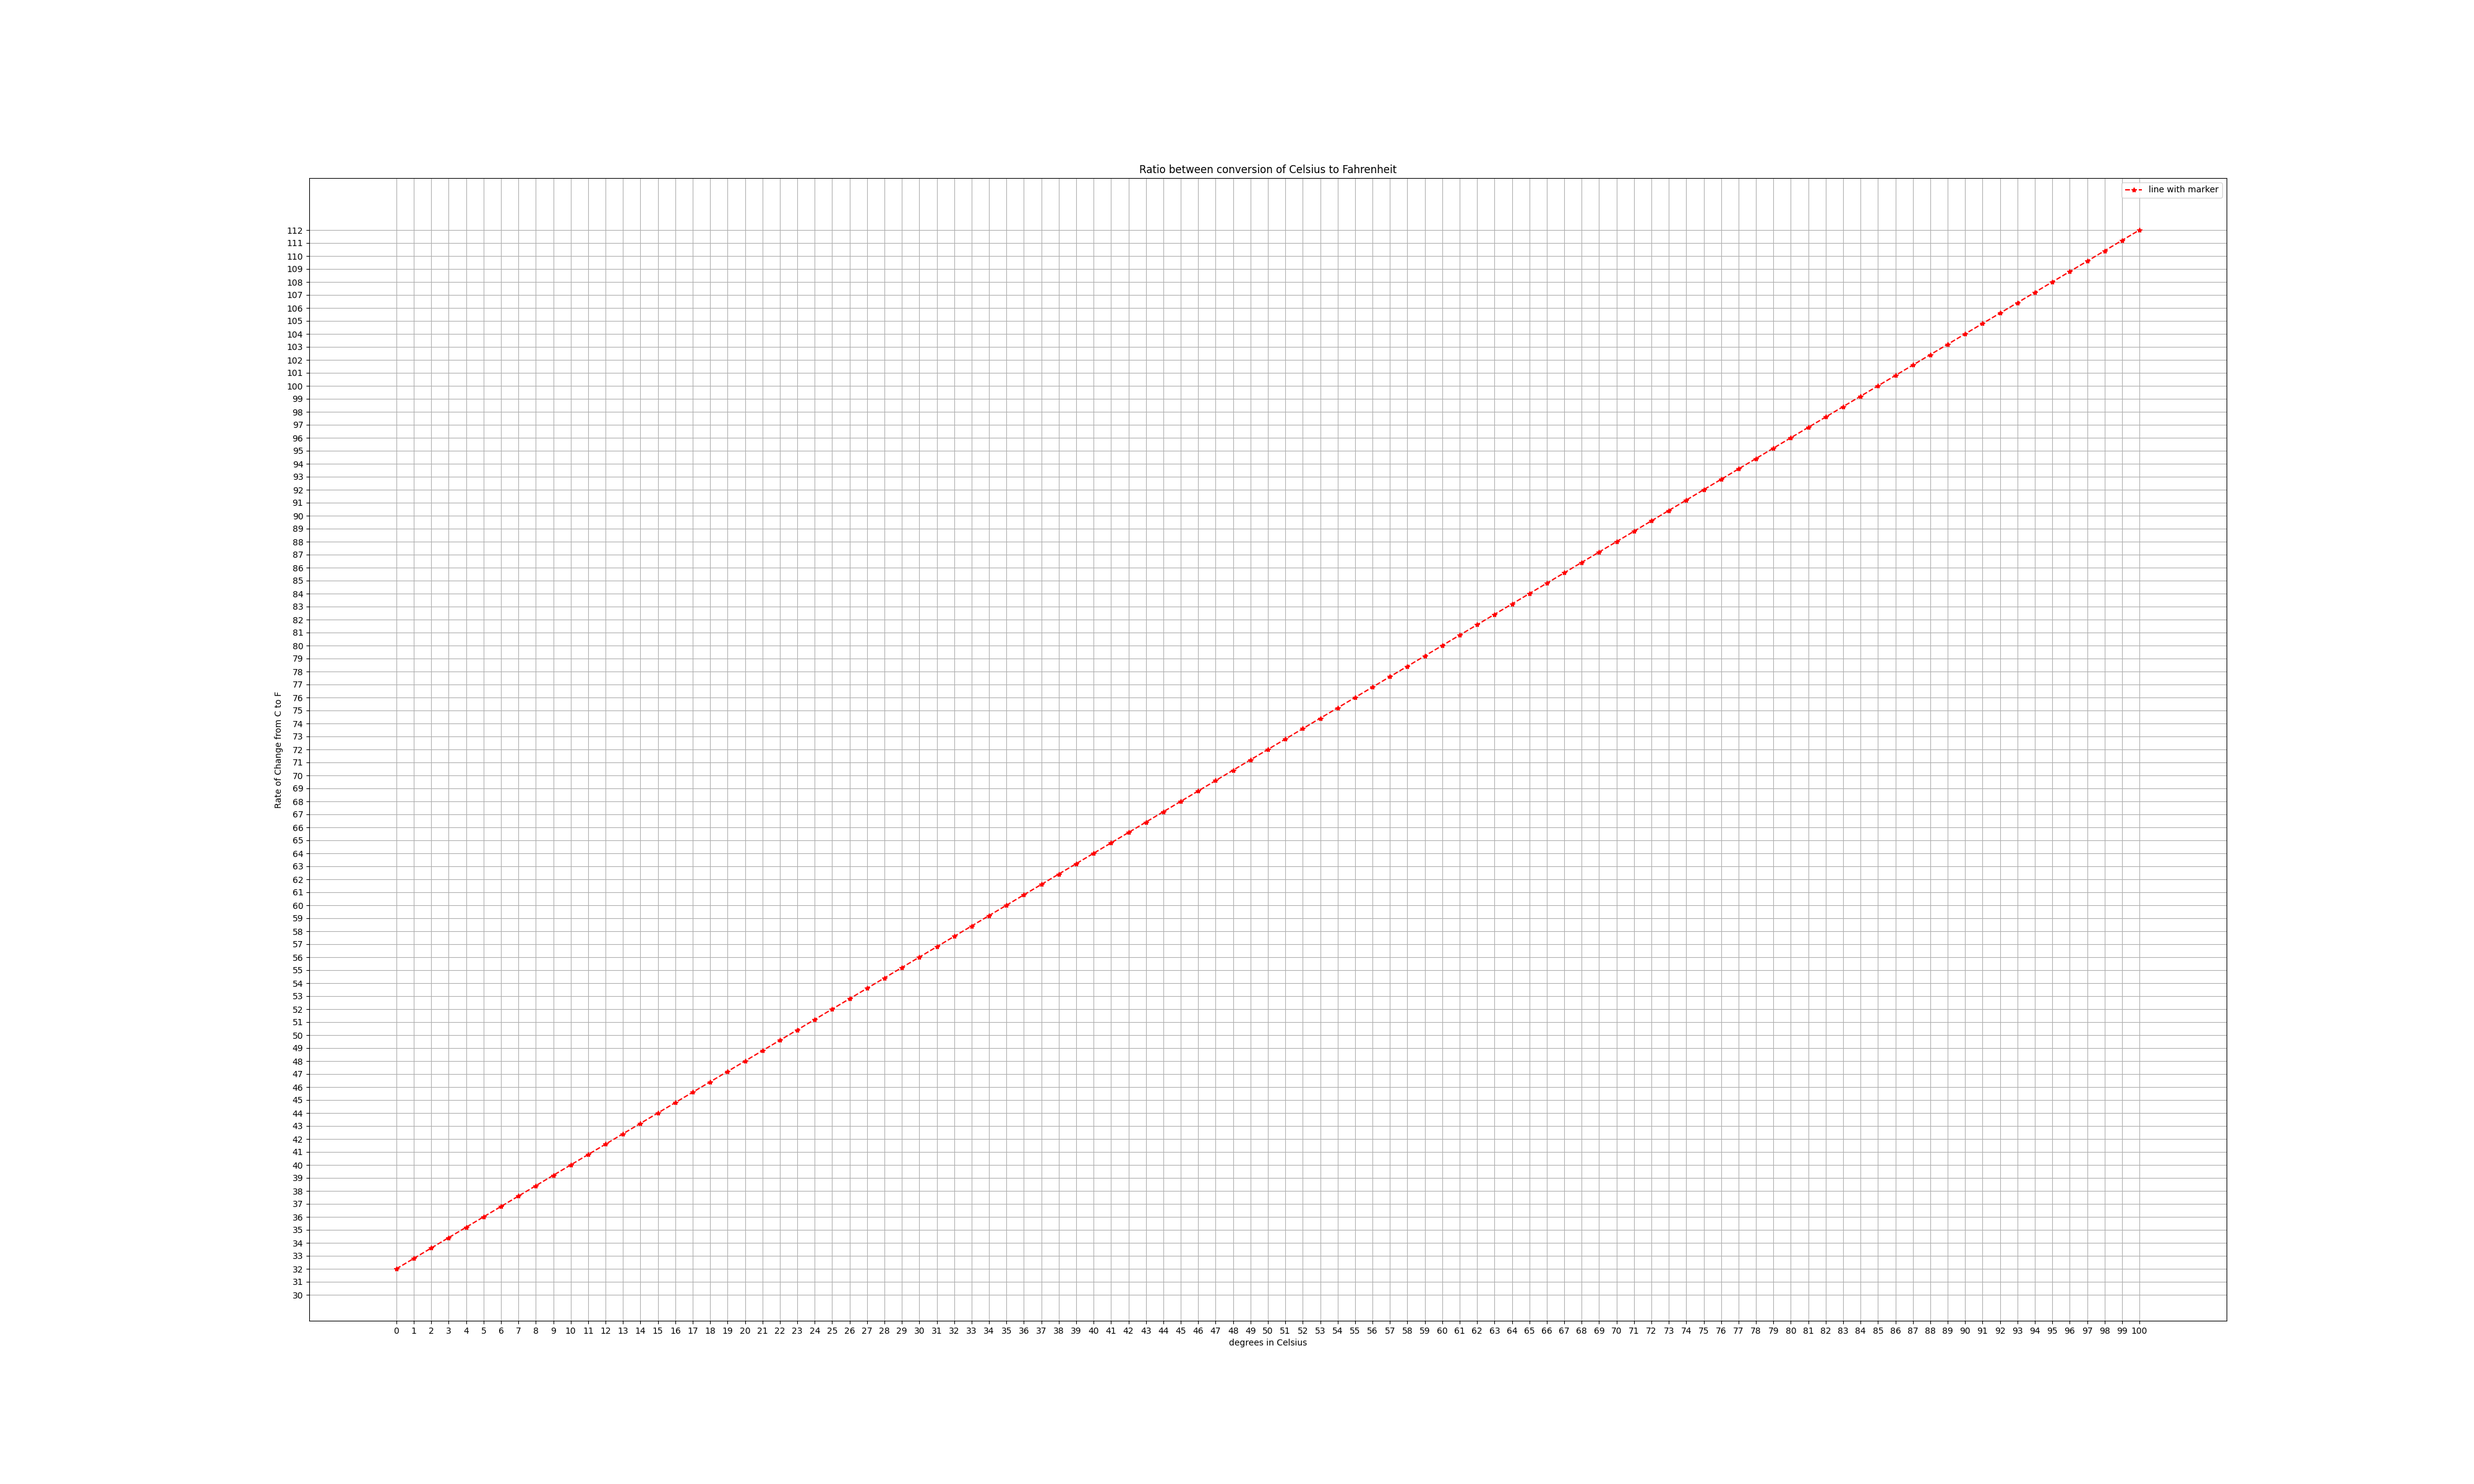
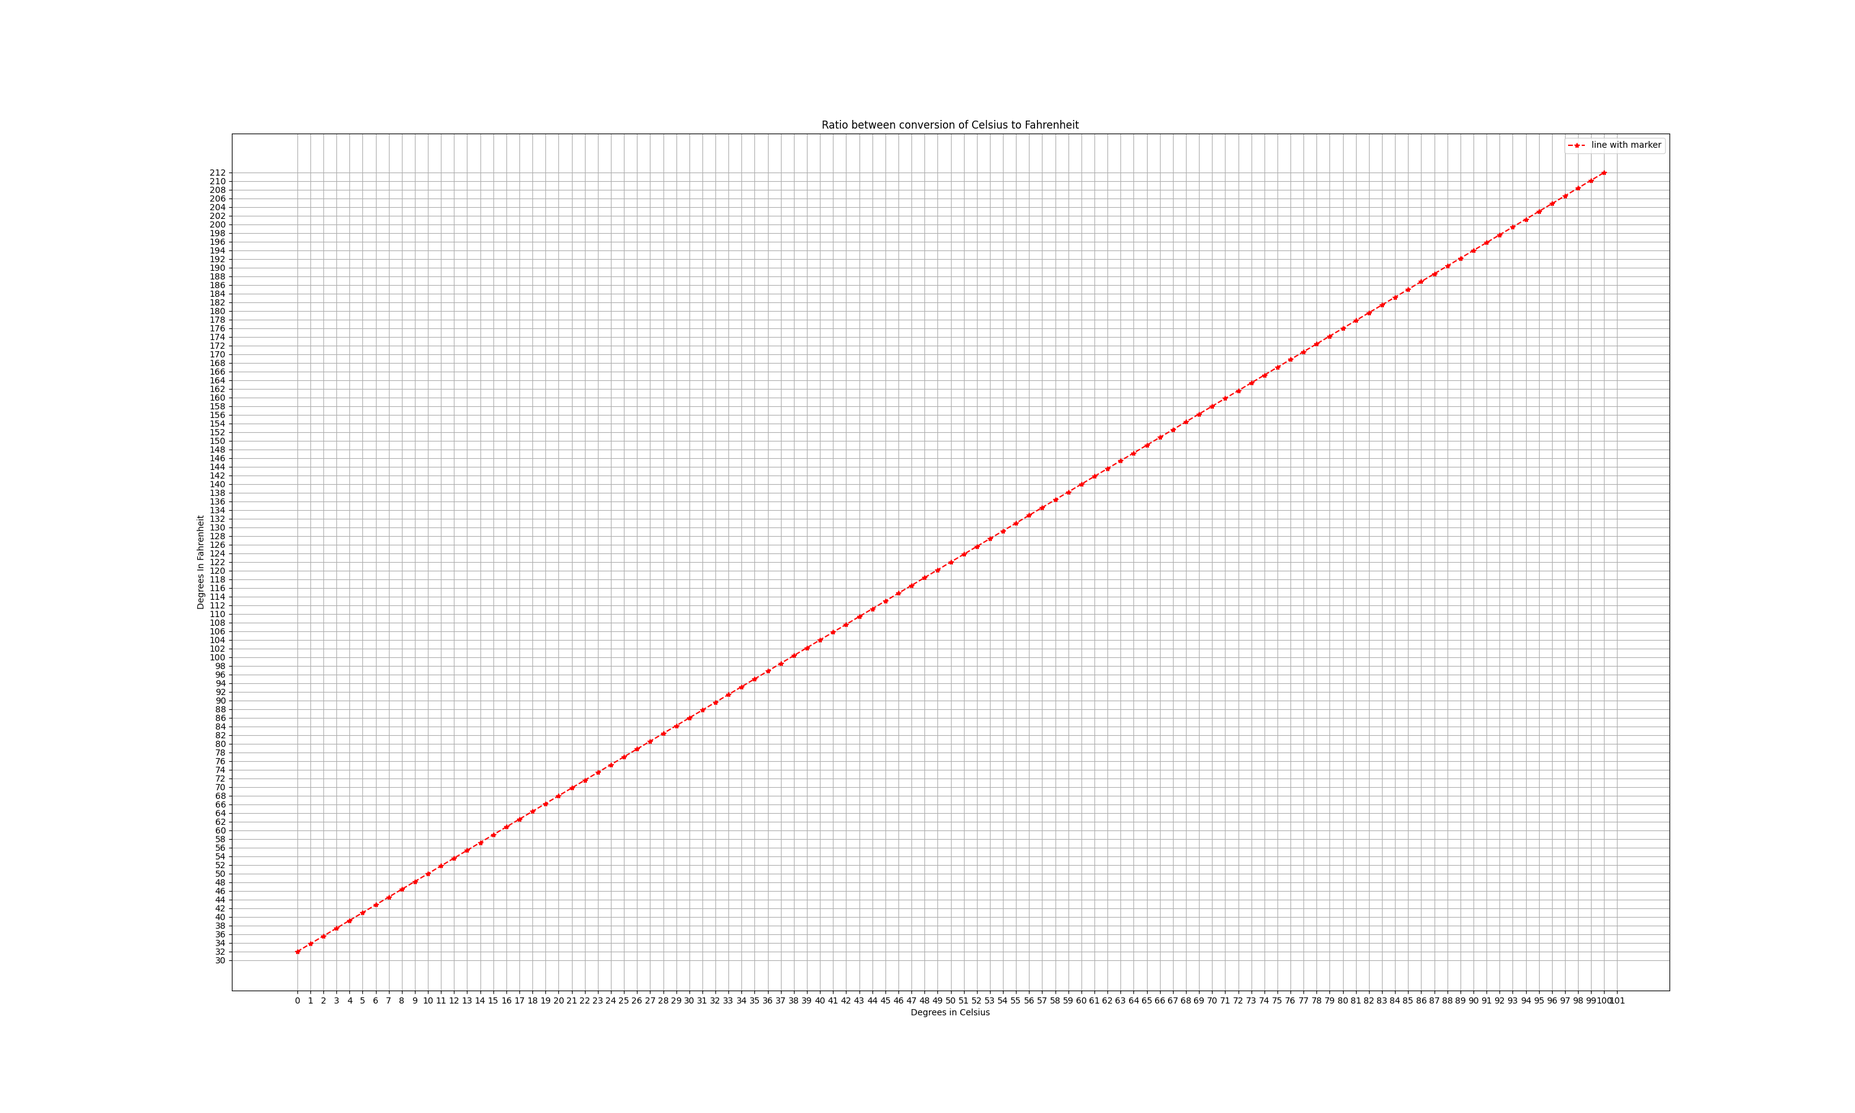
initial commit

Changed region(s): [[0.093, 0.0933, 0.899, 0.9333]]

diff --git a/main.py b/main.py
@@ -14,25 +14,31 @@ def temp_converter(a, b) :
 
 def graph_ratio():
     x = 0
+    y = 0
     celc_arr = []
+    f_arr = []
 
     while x <= 100:
         tmp_f = x * 9/5 + 32
-        temp_diff = tmp_f - x
-        celc_arr.append(round(temp_diff, 2))
+        celc_arr.append(round(tmp_f, 2))
         x += 1
+    while y <= 212:
+        tmp_c = y - 32 * 5/9
+        f_arr.append(tmp_c)
+        y += 1
+
     #print(celc_arr)
 
-    fig, ax = plt.subplots(figsize=(40, 24))
+    fig, ax = plt.subplots(figsize=(30, 18))
     ax.plot(celc_arr, linestyle='--', marker='*', color='r', label='line with marker')
 
     plt.legend()
     ax.set_title('Ratio between conversion of Celsius to Fahrenheit')
-    plt.xticks(range(0, 101, 1))
-    plt.yticks(range(30, 113, 1))
+    plt.xticks(range(0, 102, 1))
+    plt.yticks(range(30, 214, 2))
     plt.grid()
-    plt.xlabel("degrees in Celsius")
-    plt.ylabel('Rate of Change from C to F')
+    plt.xlabel("Degrees in Celsius")
+    plt.ylabel('Degrees In Fahrenheit')
     plt.savefig('Ratio_Change.png')
     plt.show()
 
